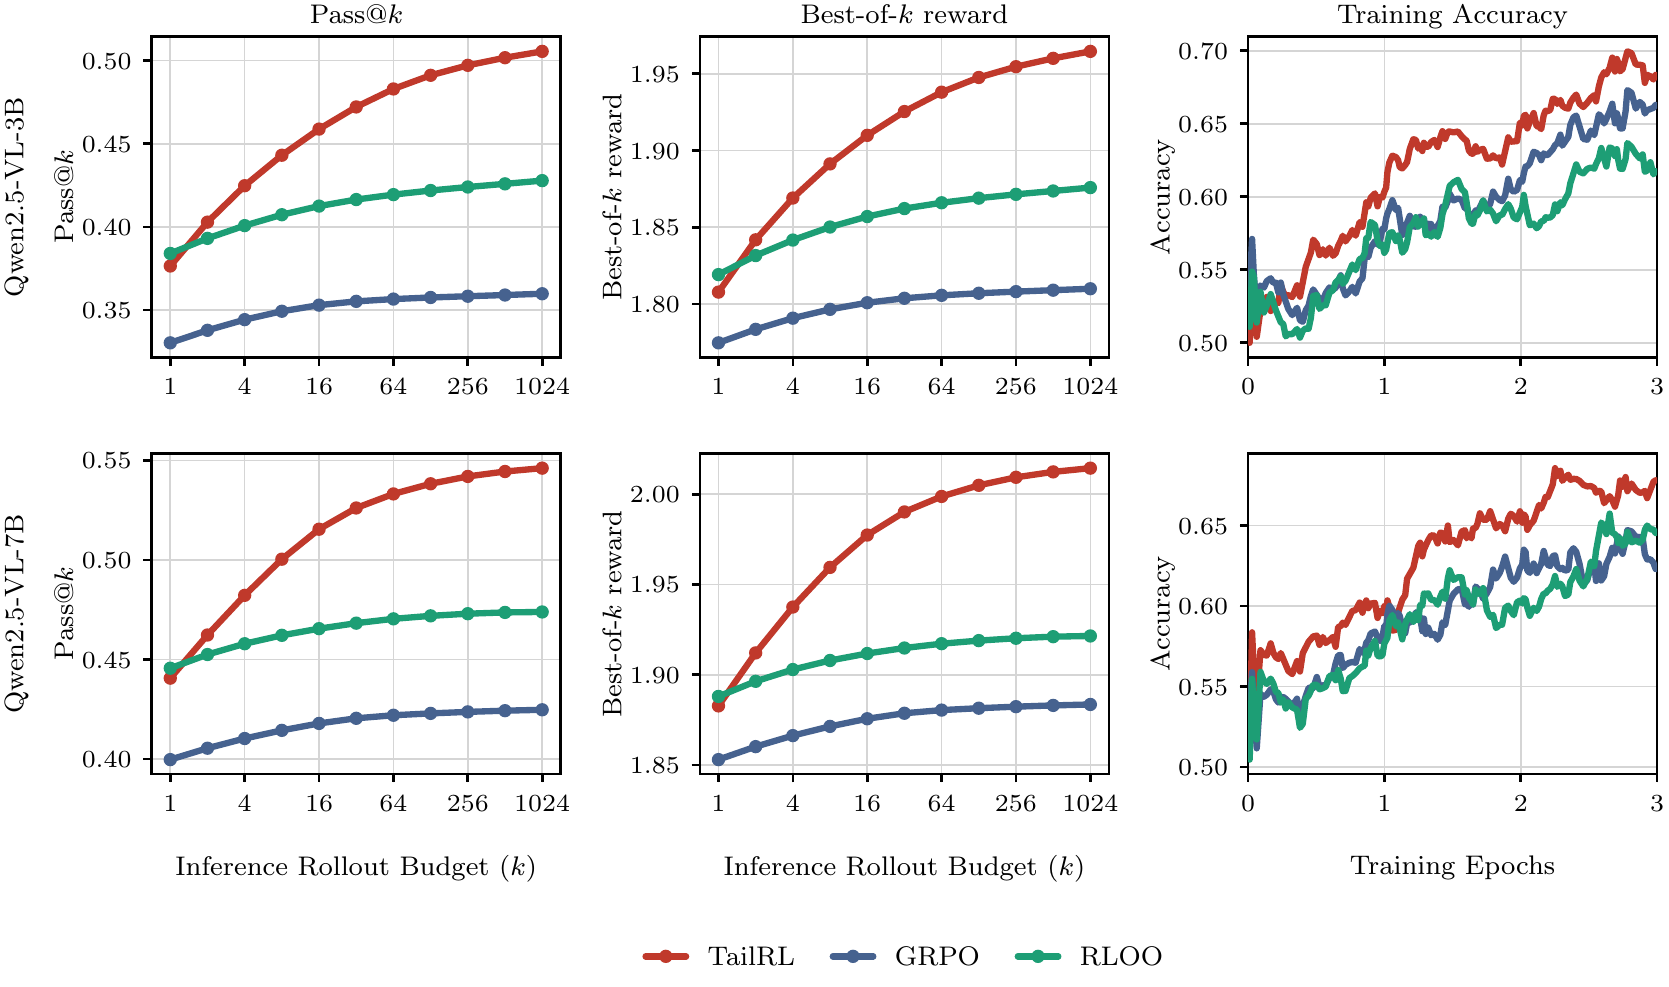
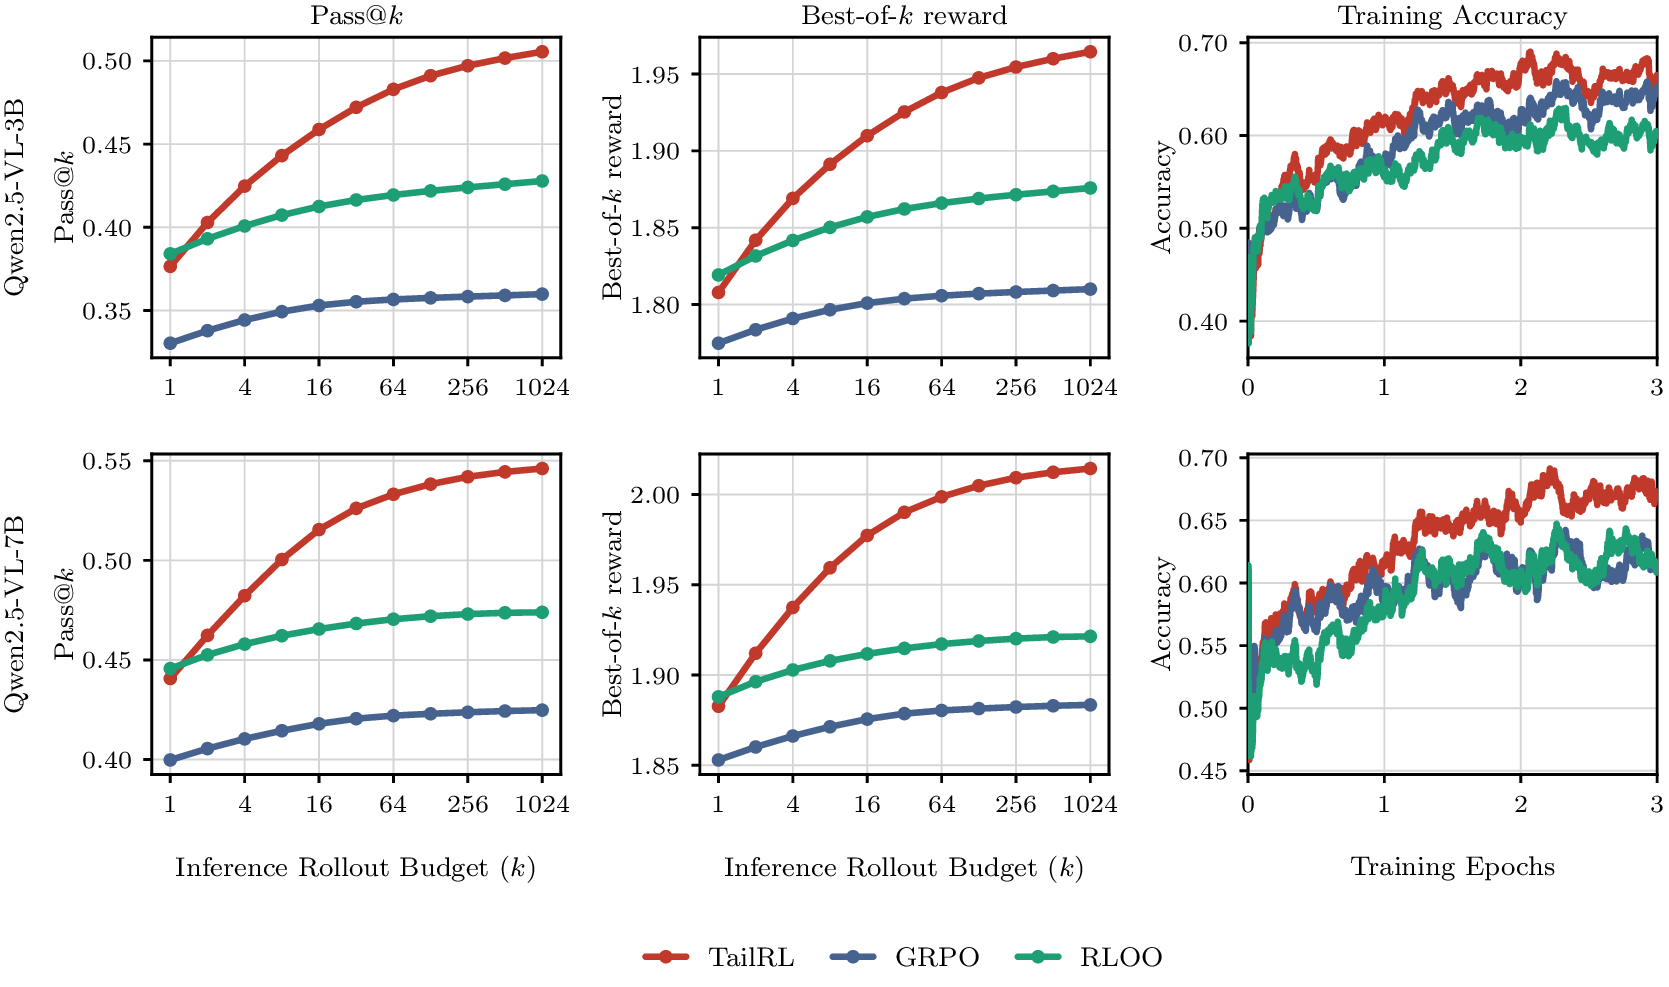
Hide the section nav on phones, refresh the GUI figure, link the code repo
The sticky bar is hidden outright below 768px rather than collapsed to a
picker: it was spending the top of a screen the masthead already crowds, on a
page short enough to scroll. Anchor scroll-margin drops to match, since there
is no longer a bar to clear.

gui_scales is re-rendered from the current paper source. The caption's
figures still hold on the new data: at 3B, Pass@1024 is 0.505 for TailRL
against 0.428 for RLOO and 0.360 for GRPO, a 7.7 to 14.5 point spread.

Both Code buttons now point at github.com/Zanette-Labs/TailRL instead of
reading 'soon'.

diff --git a/index.html b/index.html
@@ -30,18 +30,18 @@
   <link href="https://fonts.googleapis.com/css?family=Google+Sans|Noto+Sans|Castoro&display=swap" rel="stylesheet">
 
   <link rel="stylesheet" href="./static/css/bulma.min.css">
-  <link rel="stylesheet" href="./static/css/index.css?v=138">
+  <link rel="stylesheet" href="./static/css/index.css?v=141">
   <link rel="stylesheet" href="https://cdn.jsdelivr.net/npm/katex@0.16.9/dist/katex.min.css">
 
   <script defer src="https://cdn.jsdelivr.net/npm/katex@0.16.9/dist/katex.min.js"></script>
   <script defer src="https://cdn.jsdelivr.net/npm/katex@0.16.9/dist/contrib/auto-render.min.js"
     onload="renderMathInElement(document.body, {delimiters: [{left: '$$', right: '$$', display: true}, {left: '$', right: '$', display: false}]});"></script>
 
-  <script defer src="./static/js/same-mean-tail.js?v=138"></script>
-  <script defer src="./static/js/tailrl-explorer.js?v=138"></script>
-  <script defer src="./static/js/demo-gesture.js?v=138"></script>
-  <script defer src="./static/js/index.js?v=138"></script>
-  <script defer src="./static/js/scroll-jack.js?v=138"></script>
+  <script defer src="./static/js/same-mean-tail.js?v=141"></script>
+  <script defer src="./static/js/tailrl-explorer.js?v=141"></script>
+  <script defer src="./static/js/demo-gesture.js?v=141"></script>
+  <script defer src="./static/js/index.js?v=141"></script>
+  <script defer src="./static/js/scroll-jack.js?v=141"></script>
 </head>
 <body>
 
@@ -128,9 +128,9 @@
             <span class="icon"><img src="./static/images/arxiv-logomark-small.svg" alt="" width="14" height="14" style="vertical-align: middle;"></span>
             <span>Paper</span> <span class="btn-note">soon</span>
           </span>
-          <span class="btn" aria-disabled="true" role="link" title="The code release is not public yet">
-            <span>Code</span> <span class="btn-note">soon</span>
-          </span>
+          <a class="btn" href="https://github.com/Zanette-Labs/TailRL" target="_blank" rel="noopener">
+            <span>Code</span>
+          </a>
           <button type="button" class="btn" data-target="bibtex-src" data-status="copy-status-hero">BibTeX</button>
           <span class="copy-ok" id="copy-status-hero" role="status" aria-live="polite"></span>
         </div>
@@ -155,7 +155,7 @@
     </div>
 
     <figure class="figure-container" style="margin-top: 0;">
-      <img loading="lazy" decoding="async" src="./static/images/gui_scales.png?v=138" width="1669" height="987"
+      <img loading="lazy" decoding="async" src="./static/images/gui_scales.png?v=141" width="1669" height="987"
            alt="Pass@k, Best-of-k reward and training accuracy for Qwen2.5-VL 3B and 7B on ScreenSpot-Pro. The TailRL Pass@k curves keep climbing with the rollout budget while RLOO flattens and GRPO trails, even though training accuracy is similar for all three.">
       <figcaption class="figure-caption">
         All three methods reach similar training accuracy, so after training they look alike. They separate as you
@@ -225,7 +225,7 @@
     </div>
   
     <figure class="figure-container" style="margin-top: 1.75rem;">
-      <img loading="lazy" decoding="async" src="./static/images/teaser_tugofwar.png?v=138" width="4235" height="1104"
+      <img loading="lazy" decoding="async" src="./static/images/teaser_tugofwar.png?v=141" width="4235" height="1104"
            alt="Three panels. Left: RL post-training reshapes the base policy's reward distribution; GRPO and RLOO sharpen it around the mean while TailRL grows a heavy high-reward tail. Middle: expected-reward RL pulls a single rope, the mean. Right: TailRL pulls a rope at every reward threshold, hardest at the rarest.">
       <figcaption class="figure-caption">
         <strong>Expected reward pulls one rope; TailRL pulls them all.</strong>
@@ -441,7 +441,7 @@
     </details>
 
     <div style="margin: 0 0 0.5rem 0;">
-      <iframe id="tailrl-code-frame" src="./code.html?v=138" title="TailRL advantage computation as a diff against GRPO"
+      <iframe id="tailrl-code-frame" src="./code.html?v=141" title="TailRL advantage computation as a diff against GRPO"
               width="900" height="662"
               style="border: none; overflow: hidden; width: 100%; display: block;"
               scrolling="no"></iframe>
@@ -524,7 +524,7 @@
         coordinates, leading the strongest of them, L1+GIoU, on both CorLoc thresholds.
       </p>
       <figure class="figure-container">
-        <img loading="lazy" decoding="async" src="./static/images/imagenet_sup_curves.png?v=138" width="1644" height="522"
+        <img loading="lazy" decoding="async" src="./static/images/imagenet_sup_curves.png?v=141" width="1644" height="522"
              alt="Three panels showing CorLoc at 0.5, CorLoc at 0.75 and mean IoU against training epochs. The population TailRL curve sits at or above the L1, GIoU and L1+GIoU supervised baselines throughout.">
         <figcaption class="figure-caption">
           CorLoc@$0.5$, CorLoc@$0.75$ and mean IoU for population TailRL against the supervised baselines L1, GIoU
@@ -543,7 +543,7 @@
         the expected-reward baselines.
       </p>
       <figure class="figure-container">
-        <img loading="lazy" decoding="async" src="./static/images/imagenet_rl_curves.png?v=138" width="1644" height="581"
+        <img loading="lazy" decoding="async" src="./static/images/imagenet_rl_curves.png?v=141" width="1644" height="581"
              alt="Three panels showing CorLoc at 0.5, mean IoU and Best-of-1024 IoU against training epochs. TailRL curves at increasing rollout budgets rise toward a dashed exact-objective reference, and all sit above the GRPO, RLOO and PKPO curves.">
         <figcaption class="figure-caption">
           CorLoc@$0.5$, mean IoU and Best-of-$1024$ IoU on the held-out validation set. TailRL trains at
@@ -568,7 +568,7 @@
       <span class="eyebrow">Can RL learn when exceptional outcomes are almost absent?</span>
       <div class="pair-block">
       <figure class="figure-container pair-figure">
-        <img loading="lazy" decoding="async" src="./static/images/maze_init_sweep_wrap.png?v=138"
+        <img loading="lazy" decoding="async" src="./static/images/maze_init_sweep_wrap.png?v=141"
              width="834" height="691"
              alt="Pass@1 after RL plotted against Pass@1 before RL for TailRL, GRPO, RLOO and PKPO. In the shaded poor-initialization region the TailRL curve stays high, RLOO and GRPO start at zero, and PKPO sits well below TailRL.">
         <figcaption class="figure-caption">
@@ -591,7 +591,7 @@
       <span class="eyebrow">Can the objective escape a safe but useless shortcut?</span>
       <div class="float-block">
       <figure class="figure-container wrap-right">
-        <img loading="lazy" decoding="async" src="./static/images/pie_rollout_dist_v2.png?v=138" width="791" height="633"
+        <img loading="lazy" decoding="async" src="./static/images/pie_rollout_dist_v2.png?v=141" width="791" height="633"
              alt="The initial reward distribution on PIE: a large mass of incorrect rollouts at zero, a tall spike at a speedup of one from copying the input, and a thin tail of correct and faster programs.">
         <figcaption class="figure-caption">
           Initial rewards for Qwen3-1.7B-Instruct: $74.4\%$ of rollouts are incorrect, $23.5\%$ are correct but no
@@ -612,7 +612,7 @@
       </div>
 
       <figure class="figure-container">
-        <img loading="lazy" decoding="async" src="./static/images/pie_results_v3.png?v=138" width="1652" height="521"
+        <img loading="lazy" decoding="async" src="./static/images/pie_results_v3.png?v=141" width="1652" height="521"
              alt="Three panels: mean training reward over one epoch, the density of per-problem Best-of-1024 reward on the test set, and correctness probability during training. TailRL's reward climbs well above the copying value while GRPO and RLOO settle at it.">
         <figcaption class="figure-caption">
           Mean reward over one epoch (left), per-problem Best-of-$1024$ reward on the test set (middle), where GRPO
@@ -635,7 +635,7 @@
       </p>
 
       <figure class="figure-container">
-        <img loading="lazy" decoding="async" src="./static/images/gui_scales.png?v=138" width="1669" height="987"
+        <img loading="lazy" decoding="async" src="./static/images/gui_scales.png?v=141" width="1669" height="987"
              alt="Pass@k, Best-of-k reward and training accuracy for Qwen2.5-VL 3B and 7B on ScreenSpot-Pro. The TailRL Pass@k curves keep climbing with the rollout budget while RLOO flattens and GRPO trails, even though training accuracy is similar for all three.">
         <figcaption class="figure-caption">
           ScreenSpot-Pro after post-training Qwen2.5-VL-3B (top) and 7B (bottom). Columns are Pass@$k$, Best-of-$k$
@@ -662,7 +662,7 @@
   <div class="container is-max-desktop">
     <div class="btn-row">
       <span class="btn" aria-disabled="true" role="link">Read the paper <span class="btn-note">soon</span></span>
-      <span class="btn" aria-disabled="true" role="link">View the code <span class="btn-note">soon</span></span>
+      <a class="btn" href="https://github.com/Zanette-Labs/TailRL" target="_blank" rel="noopener">View the code</a>
       <button type="button" class="btn btn-primary" id="copy-bibtex" data-target="bibtex-src" data-status="copy-status">Copy BibTeX</button>
       <span class="copy-ok" id="copy-status" role="status" aria-live="polite"></span>
     </div>

diff --git a/static/css/index.css b/static/css/index.css
@@ -392,16 +392,15 @@ a:focus-visible, button:focus-visible { outline: 2px solid var(--tailrl); outlin
 .pagenav a:focus-visible { outline: 2px solid var(--tailrl); outline-offset: 2px; }
 .pagenav .links { display: flex; gap: 1.35rem; }
 .pagenav .jump { display: none; }
+/* The bar is hidden outright on a phone rather than collapsed to a picker:
+   it was spending the top of a screen that the masthead already crowds, on a
+   page short enough to scroll. */
 @media (max-width: 768px) {
-  .pagenav .links { display: none; }
-  .pagenav .jump {
-    display: block; font-family: var(--cm); font-size: 1.02rem;
-    padding: 0.3rem 0.5rem; border: 1px solid var(--border-light); border-radius: 6px;
-    background: #fff; color: var(--text-dark);
-  }
+  .pagenav { display: none; }
 }
-/* anchors clear the sticky bar */
+/* anchors clear the sticky bar, which is only there on a wide screen */
 [id] { scroll-margin-top: 68px; }
+@media (max-width: 768px) { [id] { scroll-margin-top: 12px; } }
 
 
 
